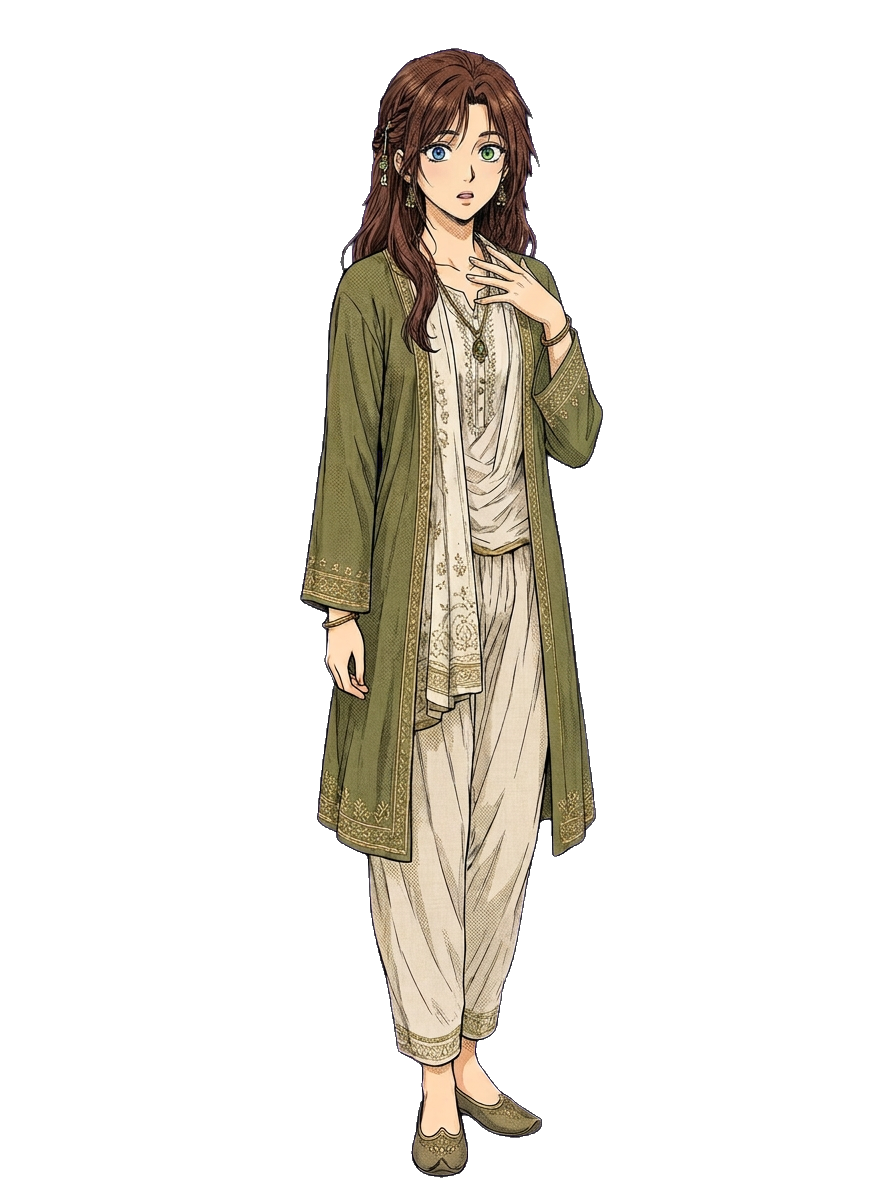
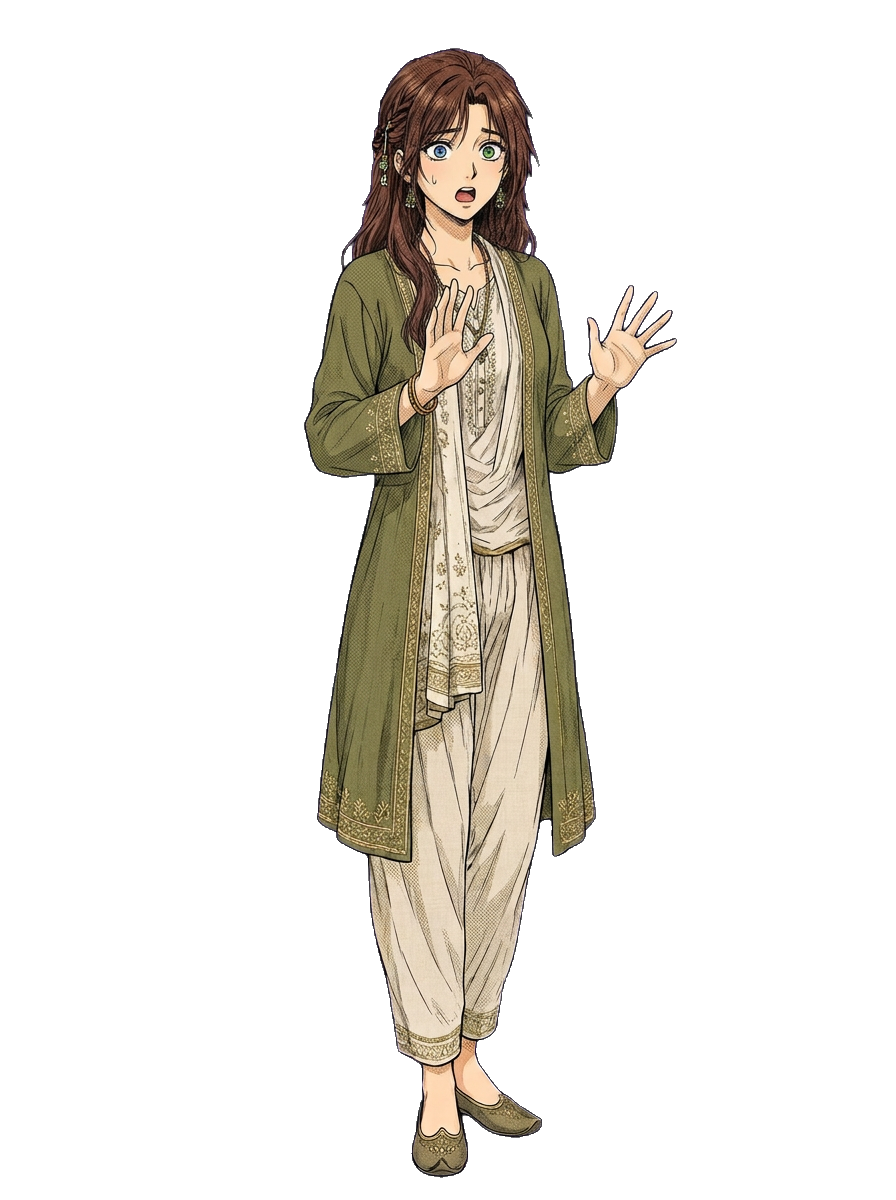
Taya: emotions redone with distinct poses + 5 new (laugh, pocket_watch, tea, firm, shy); new poses used in 8 Taya lines; ASSET_VER _23

Changed region(s): [[0.3125, 0.0925, 0.75, 0.6167], [0.625, 0.555, 0.6562, 0.6475]]

diff --git a/index.html b/index.html
@@ -260,34 +260,34 @@
   </div>
 
   <!-- SCRIPT CHAPTERS -->
-  <script src="vn-config.js?v=20261101_22"></script>
-  <script src="vn-core.js?v=20261101_22"></script>
-  <script src="script/_registry.js?v=20261101_22"></script>
-  <script src="script/prologue_1_morning.js?v=20261101_22"></script>
-  <script src="script/prologue_2_city.js?v=20261101_22"></script>
-  <script src="script/prologue_3_barbershop.js?v=20261101_22"></script>
-  <script src="script/prologue_4_depot.js?v=20261101_22"></script>
-  <script src="script/prologue_5_crash.js?v=20261101_22"></script>
-  <script src="script/day1_1_mirael.js?v=20261101_22"></script>
-  <script src="script/day1_2_valeria.js?v=20261101_22"></script>
-  <script src="script/day1_3_evening.js?v=20261101_22"></script>
-  <script src="script/day2_1_quit.js?v=20261101_22"></script>
-  <script src="script/day2_2_zero.js?v=20261101_22"></script>
-  <script src="script/day2_3_walk.js?v=20261101_22"></script>
-  <script src="script/day3_1_office.js?v=20261101_22"></script>
-  <script src="script/day3_2_nika.js?v=20261101_22"></script>
-  <script src="script/day3_3_home.js?v=20261101_22"></script>
-  <script src="script/day4_1_free.js?v=20261101_22"></script>
-  <script src="script/day4_2_barbershop.js?v=20261101_22"></script>
-  <script src="script/day4_3_home.js?v=20261101_22"></script>
-  <script src="script/day5_1_artyom.js?v=20261101_22"></script>
-  <script src="script/day5_2_elevator.js?v=20261101_22"></script>
-  <script src="script/day5_3_night.js?v=20261101_22"></script>
-  <script src="script/day6_1_morning.js?v=20261101_22"></script>
-  <script src="script/day6_2_squeeze.js?v=20261101_22"></script>
-  <script src="script/day6_3_taya.js?v=20261101_22"></script>
-  <script src="script/day7_1_voices.js?v=20261101_22"></script>
-  <script src="script/day7_2_stairs.js?v=20261101_22"></script>
-  <script src="engine.js?v=20261101_22"></script>
+  <script src="vn-config.js?v=20261101_23"></script>
+  <script src="vn-core.js?v=20261101_23"></script>
+  <script src="script/_registry.js?v=20261101_23"></script>
+  <script src="script/prologue_1_morning.js?v=20261101_23"></script>
+  <script src="script/prologue_2_city.js?v=20261101_23"></script>
+  <script src="script/prologue_3_barbershop.js?v=20261101_23"></script>
+  <script src="script/prologue_4_depot.js?v=20261101_23"></script>
+  <script src="script/prologue_5_crash.js?v=20261101_23"></script>
+  <script src="script/day1_1_mirael.js?v=20261101_23"></script>
+  <script src="script/day1_2_valeria.js?v=20261101_23"></script>
+  <script src="script/day1_3_evening.js?v=20261101_23"></script>
+  <script src="script/day2_1_quit.js?v=20261101_23"></script>
+  <script src="script/day2_2_zero.js?v=20261101_23"></script>
+  <script src="script/day2_3_walk.js?v=20261101_23"></script>
+  <script src="script/day3_1_office.js?v=20261101_23"></script>
+  <script src="script/day3_2_nika.js?v=20261101_23"></script>
+  <script src="script/day3_3_home.js?v=20261101_23"></script>
+  <script src="script/day4_1_free.js?v=20261101_23"></script>
+  <script src="script/day4_2_barbershop.js?v=20261101_23"></script>
+  <script src="script/day4_3_home.js?v=20261101_23"></script>
+  <script src="script/day5_1_artyom.js?v=20261101_23"></script>
+  <script src="script/day5_2_elevator.js?v=20261101_23"></script>
+  <script src="script/day5_3_night.js?v=20261101_23"></script>
+  <script src="script/day6_1_morning.js?v=20261101_23"></script>
+  <script src="script/day6_2_squeeze.js?v=20261101_23"></script>
+  <script src="script/day6_3_taya.js?v=20261101_23"></script>
+  <script src="script/day7_1_voices.js?v=20261101_23"></script>
+  <script src="script/day7_2_stairs.js?v=20261101_23"></script>
+  <script src="engine.js?v=20261101_23"></script>
 </body>
 </html>

diff --git a/script/day6_3_taya.js b/script/day6_3_taya.js
@@ -21,7 +21,7 @@ window.VN_CHAPTERS.push({
     { speaker: "Александр", text: "А что будет на двенадцати?" },
     { speaker: "Тая", sprite: { char: "taya", emotion: "sad_compassion", pos: "right" }, text: "Не знаю. Правда. Я узнаю вместе с тобой." },
     { text: "Она заварила чай. Тот же, с дымком. Саша держал пиалу обеими руками, хотя в мастерской было тепло." },
-    { speaker: "Тая", sprite: { char: "taya", emotion: "neutral", pos: "right" }, text: "У тебя что-то случилось сегодня. Не с часами." },
+    { speaker: "Тая", sprite: { char: "taya", emotion: "tea", pos: "right" }, text: "У тебя что-то случилось сегодня. Не с часами." },
     {
       choice: {
         id: "d6_taya_talk",
@@ -31,7 +31,7 @@ window.VN_CHAPTERS.push({
             label: "Спросить, что ему делать",
             next: [
               { speaker: "Александр", sprite: { char: "alexander", emotion: "stressed", pos: "left" }, text: "Меня выселяют. Завтра. Если я не пойду к одним людям и не подпишу одну бумагу. Что мне делать, Тая?" },
-              { speaker: "Тая", sprite: { char: "taya", emotion: "neutral", pos: "right" }, text: "Я не скажу." },
+              { speaker: "Тая", sprite: { char: "taya", emotion: "firm", pos: "right" }, text: "Я не скажу." },
               { speaker: "Александр", text: "Почему?" },
               { speaker: "Тая", text: "Потому что тогда это будет моё решение. А жить с ним тебе." }
             ]
@@ -57,7 +57,7 @@ window.VN_CHAPTERS.push({
       }
     },
     { text: "Тая сняла с полки старые каминные часы, открыла заднюю крышку и повернула к нему механизм. Внутри качался маленький якорёк, туда-сюда." },
-    { speaker: "Тая", sprite: { char: "taya", emotion: "neutral", pos: "right" }, text: "Это анкер. Слушай. Тик. Так. А между ними колесо стоит. Совсем. Его отпускают и ловят." },
+    { speaker: "Тая", sprite: { char: "taya", emotion: "pocket_watch", pos: "right" }, text: "Это анкер. Слушай. Тик. Так. А между ними колесо стоит. Совсем. Его отпускают и ловят." },
     { text: "Саша наклонился. Тик — и тишина, крошечная, на волос. Так — и снова тишина. Он никогда раньше не слышал этих пауз. Теперь не слышать их не получалось." },
     { speaker: "Тая", sprite: { char: "taya", emotion: "warm_smile", pos: "right" }, text: "Ты живёшь от удара к удару. А можно научиться жить в паузе. Хотя бы иногда. Приходи учиться. По вечерам." },
     {

diff --git a/script/day2_2_zero.js b/script/day2_2_zero.js
@@ -67,7 +67,7 @@ window.VN_CHAPTERS.push({
         { text: "Она сказала это так спокойно, что переспрашивать стало стыдно. Саша сел." }
       ],
       else: [
-        { speaker: "Тая", sprite: { char: "taya", emotion: "warm_smile", pos: "right" }, text: "Заходи, чайник как раз вскипел. Ты бледный." },
+        { speaker: "Тая", sprite: { char: "taya", emotion: "tea", pos: "right" }, text: "Заходи, чайник как раз вскипел. Ты бледный." },
         { speaker: "Александр", sprite: { char: "alexander", emotion: "neutral", pos: "left" }, text: "Мне сейчас заказ пришёл в квартиру ноль. В вашей арке." },
         { speaker: "Тая", sprite: { char: "taya", emotion: "thoughtful", pos: "right" }, text: "И ты отказался." },
         { speaker: "Александр", text: "А надо было принять?" },
@@ -86,7 +86,7 @@ window.VN_CHAPTERS.push({
     { speaker: "Тая", text: "Разное. Кто-то оставался у меня работать — помогать в мастерской. Им становилось легче. Один до сих пор приходит по четвергам. Приносит пряники и чинит кукушек." },
     { speaker: "Тая", sprite: { char: "taya", emotion: "warm_smile", pos: "right" }, text: "Приходи и ты, когда будет время. Мне нужны руки. Пинцет держать, пружины не терять." },
     { speaker: "Александр", sprite: { char: "alexander", emotion: "happy", pos: "left" }, text: "Время у меня теперь есть. Я сегодня уволился." },
-    { speaker: "Тая", sprite: { char: "taya", emotion: "neutral", pos: "right" }, text: "Сегодня? И как?" },
+    { speaker: "Тая", sprite: { char: "taya", emotion: "surprised", pos: "right" }, text: "Сегодня? И как?" },
     { speaker: "Александр", text: "Легко. Подозрительно легко." },
     {
       choice: {
@@ -98,7 +98,7 @@ window.VN_CHAPTERS.push({
             effects: { aff_taya: 1 },
             next: [
               { speaker: "Александр", sprite: { char: "alexander", emotion: "smile", pos: "left" }, text: "Приду. Только предупреждаю: пружины я теряю профессионально." },
-              { speaker: "Тая", sprite: { char: "taya", emotion: "warm_smile", pos: "right" }, text: "Тогда начнём с того, что будем их искать. Это полезнее, чем кажется." }
+              { speaker: "Тая", sprite: { char: "taya", emotion: "laugh", pos: "right" }, text: "Тогда начнём с того, что будем их искать. Это полезнее, чем кажется." }
             ]
           },
           {

diff --git a/script/day1_3_evening.js b/script/day1_3_evening.js
@@ -111,11 +111,11 @@ window.VN_CHAPTERS.push({
     },
     { text: "Пальцы в кармане нашли часы. Он спустился по ступенькам и толкнул дверь." },
     { bg: "bg_taya_workshop", text: "Звякнул колокольчик. Внутри пахло деревом, часовым маслом и чаем. Со всех полок тикали часы — вразнобой, как дождь по крыше." },
-    { speaker: "Тая", sprite: { char: "taya", emotion: "neutral", pos: "right" }, text: "Заходи. Не стой на пороге." },
+    { speaker: "Тая", sprite: { char: "taya", emotion: "pocket_watch", pos: "right" }, text: "Заходи. Не стой на пороге." },
     { text: "За верстаком под зелёной лампой сидела темноволосая девушка в оливковом кардигане. Она сняла с глаза лупу, и он увидел, что глаза у неё разные: правый зелёный, левый голубой." },
     { speaker: "Александр", sprite: { char: "alexander", emotion: "neutral", pos: "left" }, text: "Добрый вечер. У меня часы встали. Вчера. После... удара." },
     { text: "Она посмотрела сначала на часы в его руке, потом на бинты на ладонях. Ничего не спросила." },
-    { speaker: "Тая", sprite: { char: "taya", emotion: "warm_smile", pos: "right" }, text: "Я Тая. Часы подождут, они же стоят. Садись. Сначала выпей чаю." },
+    { speaker: "Тая", sprite: { char: "taya", emotion: "tea", pos: "right" }, text: "Я Тая. Часы подождут, они же стоят. Садись. Сначала выпей чаю." },
     { text: "Она налила из глиняного чайника в две низкие пиалы. Улун был горячий, пах печёным яблоком. Саша обхватил пиалу ладонями и понял, что весь вечер мёрз." },
     { speaker: "Александр", text: "Саша. У вас тихо. С улицы вообще ничего не слышно." },
     { speaker: "Тая", sprite: { char: "taya", emotion: "neutral", pos: "right" }, text: "Старая кладка. Толстые стены." },

diff --git a/vn-config.js b/vn-config.js
@@ -80,7 +80,7 @@
       fallback: "neutral"
     },
     taya: {
-      emotions: set(C + "taya/transparent/taya_{e}.png", ["neutral", "sad_compassion", "serious", "surprised", "thoughtful", "warm_smile"]),
+      emotions: set(C + "taya/transparent/taya_{e}.png", ["neutral", "sad_compassion", "serious", "surprised", "thoughtful", "warm_smile", "laugh", "pocket_watch", "tea", "firm", "shy"]),
       aliases: {},
       fallback: "neutral"
     }

diff --git a/engine.js b/engine.js
@@ -1,6 +1,6 @@
 // ДВИЖОК ВИЗУАЛЬНОЙ НОВЕЛЛЫ «НЕ СМОТРИ НА НЕБО» ($WAG ENTERTAINMENT)
 (function () {
-  const ASSET_VER = "20261101_22";
+  const ASSET_VER = "20261101_23";
 
   function withVer(url) {
     if (!url) return "";

diff --git a/docs/production/assets.md b/docs/production/assets.md
@@ -62,7 +62,7 @@
 | Валерия | `valeria_*` (истинный облик), `valeria_human_*` (серая рубашка, юбка-карандаш) | ✅ 01.11 перевырезаны из RGB-оригиналов (заливка фона от краёв + маска сегментации): без дыр в страницах, рогах, пальцах |
 | Ника | `nika/transparent/nika_*` (оригиналы RGBA в корне) | ОК. Человеческого облика нет (и не нужно, решение 7) |
 | Лена | `lena/transparent/lena_*` (оригиналы RGBA в корне), включая `lena_coffee` (термос с клапаном) | Косухи на спрайтах **нет** — в тексте не упоминаем |
-| Тая | `taya/transparent/taya_*`: neutral, warm_smile, sad_compassion, serious, surprised, thoughtful | ✅ 01.11 новый образ (дефолт от автора, эмоции сгенерированы от него) |
+| Тая | `taya/transparent/taya_*`: neutral, warm_smile (руки сцеплены), sad_compassion (ладони у груди), serious (руки скрещены), surprised (обе ладони вперёд), thoughtful (рука у подбородка), laugh (смеётся, прикрыв рот), pocket_watch (открытые карманные часы в руках), tea (пиала с улуном), firm (ладонь «стоп»), shy (заправляет прядь, румянец) | ✅ 01.11 новый образ: дефолт от автора, 10 эмоций с разными позами |
 | Артём | `artem_shank_*`: empty, happy, neutral, sad | **Не трогать без автора:** нарисован по фото реального друга автора как отсылка. Перерисовка в общем стиле — когда-нибудь, только сохраняя сходство |
 | Дмитрий | `dmitry/transparent/dmitry_*`: neutral, serious (с телефоном), angry, tired, smile | ✅ 01.11 перерисован. Бейдж перенабран шрифтом |
 
@@ -132,5 +132,5 @@
 | Лена ×10 → `lena/transparent/` | ✅ 01.11 (вход — RGBA из корня на белом, большие уменьшены до 896×1200; surprised перегенерирован — пряди за бантом целы) |
 | Ника ×8 → `nika/transparent/` | ✅ 01.11 (`--neutral-despill`; annoyed перегенерирован со светлой кожей) |
 | Дмитрий ×5 | ✅ 01.11 (`--neutral-despill`; у tired облачко вздоха снова залито белым) |
-| Тая ×6 | ✅ 01.11 новый дефолт от автора → холст 896×1200, синий ключ `--key blue` (оливковый кардиган, зелёный глаз); цвет внутри фигуры дефолта перенесён из оригинала (генератор приглушил голубой глаз); эмоции — правкой синего дефолта |
+| Тая ×11 | ✅ 01.11 новый дефолт от автора → холст 896×1200, синий ключ `--key blue` (оливковый кардиган, зелёный глаз); цвет внутри фигуры дефолта перенесён из оригинала (генератор приглушил голубой глаз); эмоции — правкой синего дефолта |
 
